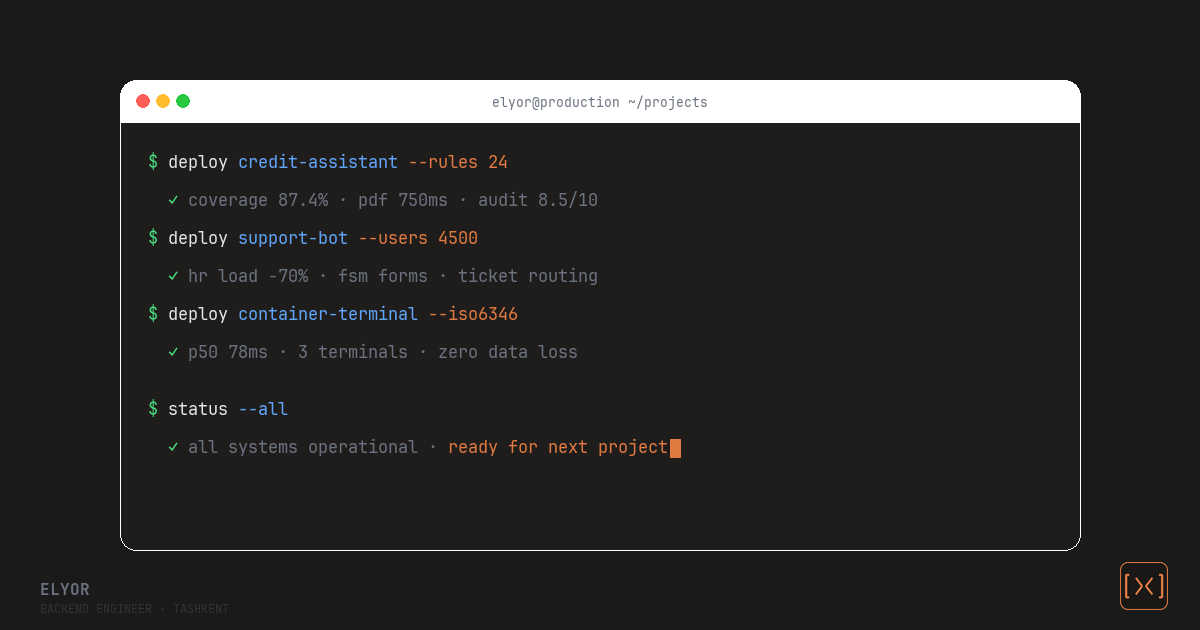
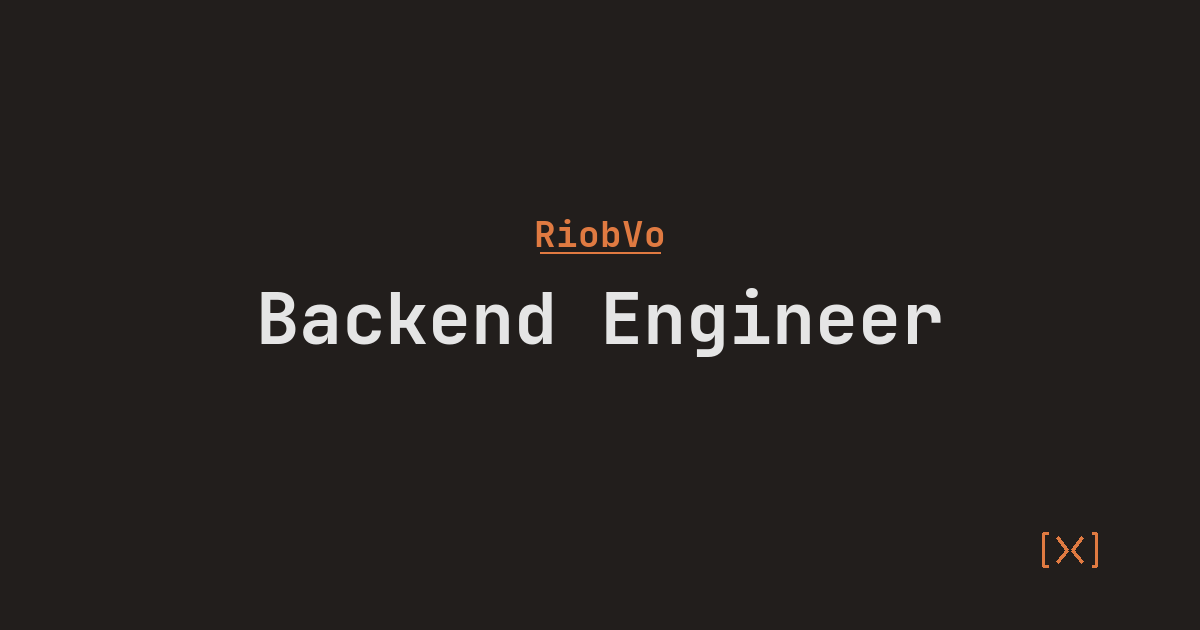
fix: new OG image + mobile case-nav polish
- Replace terminal-style OG with clean card: RiobVo + Backend Engineer + icon
- Case-nav on mobile: compact layout, smaller title (17px), border separators

diff --git a/styles/components.css b/styles/components.css
@@ -2165,7 +2165,21 @@
   padding: 40px 0 56px;
   border-top: 1px solid var(--line);
 }
-@media (max-width: 720px) { .case-nav { flex-direction: column; gap: 24px; } }
+@media (max-width: 720px) {
+  .case-nav {
+    flex-direction: column;
+    gap: 0;
+    padding: 24px 0 32px;
+  }
+  .case-nav a {
+    padding: 16px 0;
+    border-bottom: 1px solid var(--line);
+    width: 100%;
+  }
+  .case-nav a:last-child { border-bottom: 0; }
+  .case-nav a.next { text-align: left; align-items: flex-start; }
+  .case-nav a .title-line { font-size: 17px; }
+}
 .case-nav a {
   text-decoration: none;
   color: inherit;